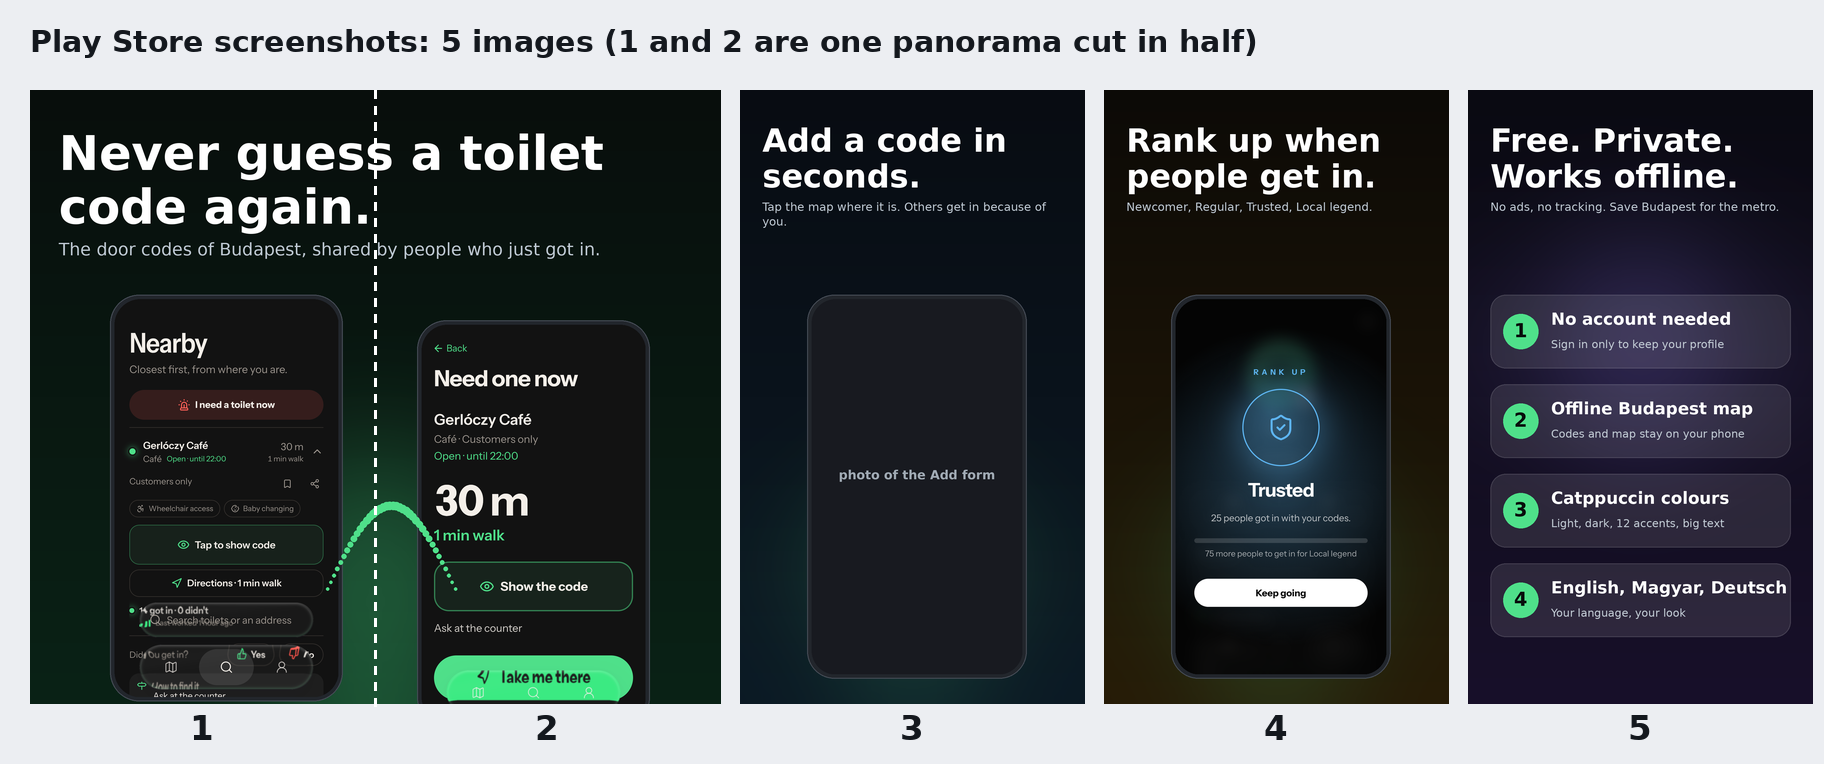
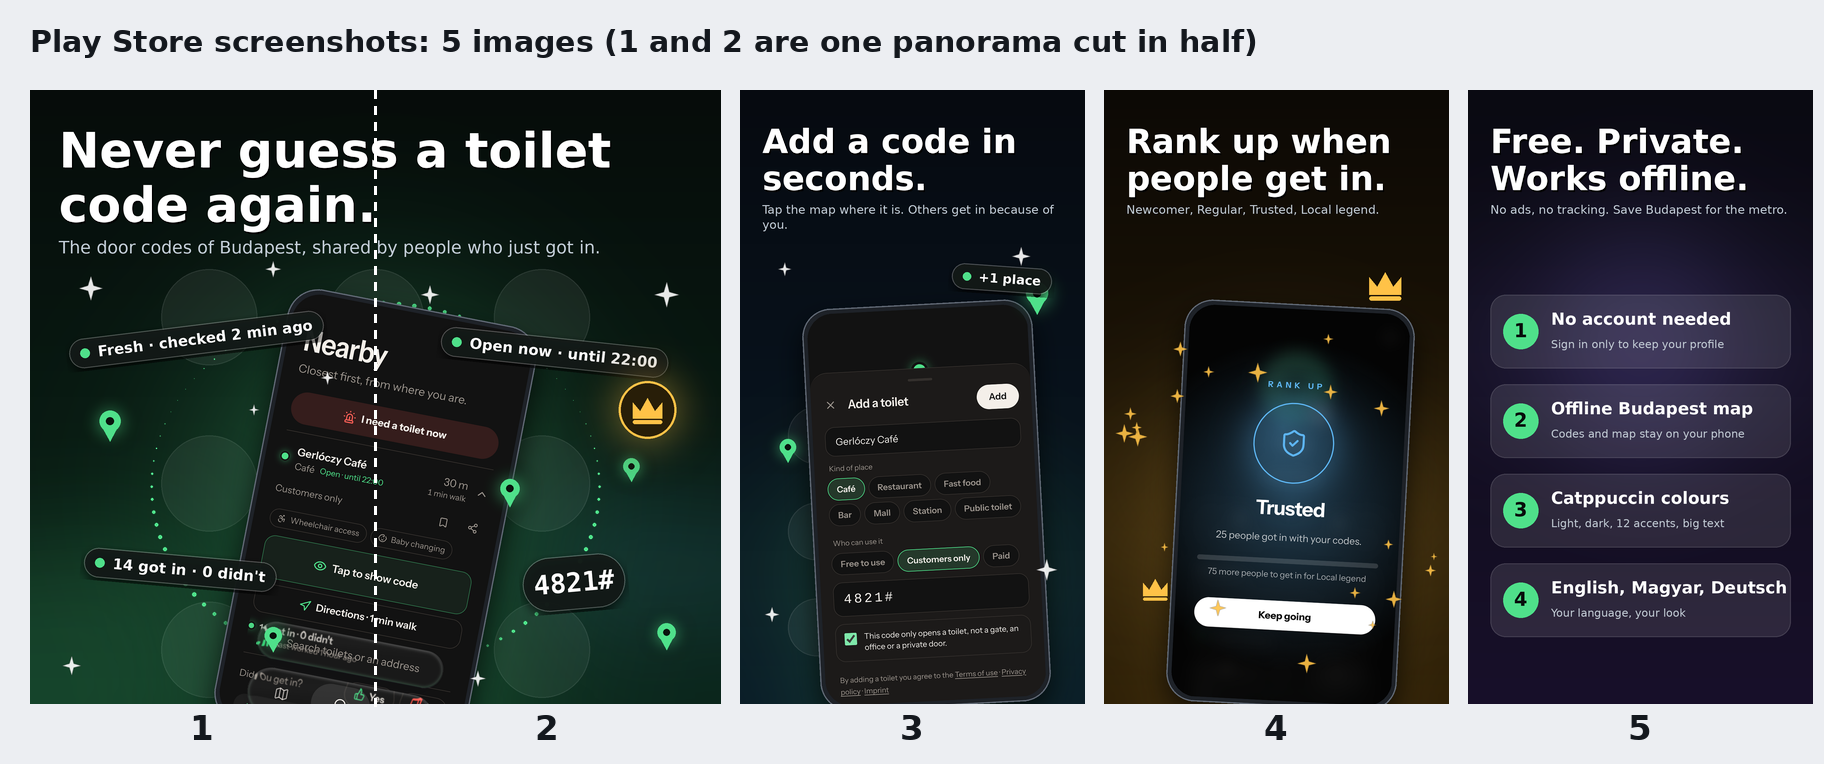
Play Store screenshot drafts: tilted-phone panorama cut in half, add form, rank-up, promises
Claude-Session: https://claude.ai/code/session_01T1vt3hfEkVHdKnUiK7zvyb

diff --git a/docs/play-store-screenshots.md b/docs/play-store-screenshots.md
@@ -12,8 +12,10 @@ person swipes from 1 to 2 the picture continues; images 3, 4 and 5 stand alone.
 | 4 | 1080×1920 | **"Rank up when people get in."** Newcomer, Regular, Trusted, Local legend. | The rank-up screen (`/profile?rankup=2`). |
 | 5 | 1080×1920 | **"Free. Private. Works offline."** No ads, no tracking. | Four short promises (no account needed, offline map, colours, 3 languages). |
 
-`play-store-screenshots-plan.png` next to this file shows the layout with the real screens in place (the Add form slot is a grey placeholder:
-take that one on your phone).
+`play-store-screenshots-plan.png` next to this file shows the layout with the real app screens in place. Ready-to-use drafts of all five
+images (1080×1920) are in `store-images/`: `01-left.png` and `02-right.png` are the two halves of `panorama-2160x1920.png` (a tilted phone cut in half by the seam, with
+floating chips, pins, a code chip and a rank badge), then `03-add.png`, `04-rank.png`, `05-promises.png`. Upload them as they are, or use them as the layout reference for the
+generator prompts below. Replace the app screens with fresh screenshots from your phone (with real data) before the final upload.
 
 ## What makes store screenshots work (short, and honest about the evidence)
 
